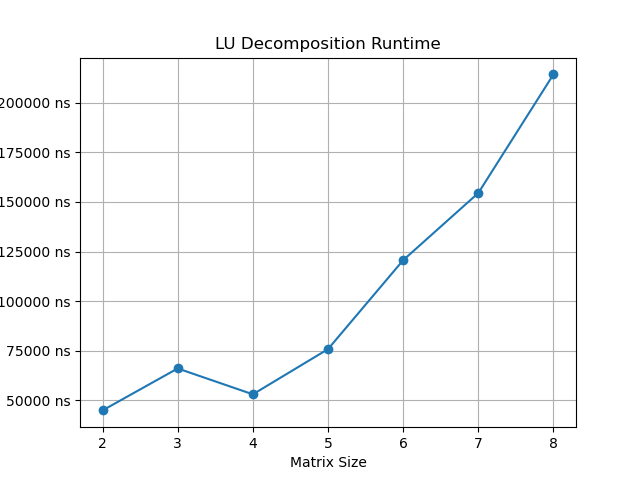
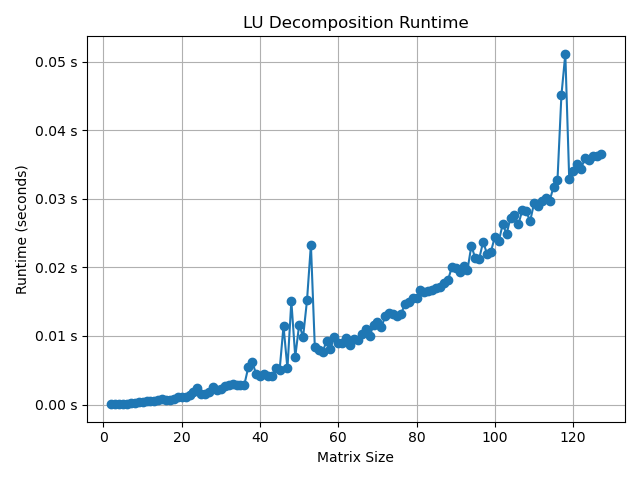
increased number of iterations to 124 (maybe a bit much? or maybe not bc its kinda fast?) changed y-scale from nano to reg seconds, maybe we could find a way to display all runtimes on the same plot -- might be nice during presentation to have a complete overview of runtimes before we delve in to sp

diff --git a/lu_decomp.py b/lu_decomp.py
@@ -29,28 +29,28 @@ def LUPDecompose(A, Tol=1.0e-9):
 def generate_matrix(N):
     return np.random.rand(N, N)*10
 
-def format_ns(x, pos):
-    return f'{int(x)} ns'
+def format_seconds(x, pos):
+    return f'{x:.2f} s'
 
 dim = []
-runtimes_ns = []
+runtimes_s = []
 
-for i in range(2, 9):  # can adjust range for sizes
+for i in range(2, 128):  # can adjust range for sizes
     A = generate_matrix(i)
     start_time = timeit.default_timer()
     P = LUPDecompose(A.copy())  # use A.copy() to avoid modifying the original A
-    runtime_ns = (timeit.default_timer() - start_time) * 1e9  # Convert to nanoseconds
-    runtimes_ns.append(runtime_ns)
+    runtime_s = timeit.default_timer() - start_time  # Directly calculate in seconds
+    runtimes_s.append(runtime_s)
     dim.append(i)
-    print(f"Matrix size: {i}, Runtime: {runtime_ns} ns")
+    print(f"Matrix size: {i}, Runtime: {runtime_s} s")
 
-plt.plot(dim, runtimes_ns, marker='o')
-formatter = FuncFormatter(format_ns)
+plt.plot(dim, runtimes_s, marker='o')
+formatter = FuncFormatter(format_seconds)
 plt.gca().yaxis.set_major_formatter(formatter)
 plt.xlabel('Matrix Size')
-plt.ylabel('Runtime (nanoseconds)')
+plt.ylabel('Runtime (seconds)')
 plt.title('LU Decomposition Runtime')
 plt.grid(True)
-# save figure to /images
+plt.tight_layout()  # Adjust layout
 plt.savefig('images/LU_Decomposition_Runtime.png')
 #plt.show()  # also show in window
